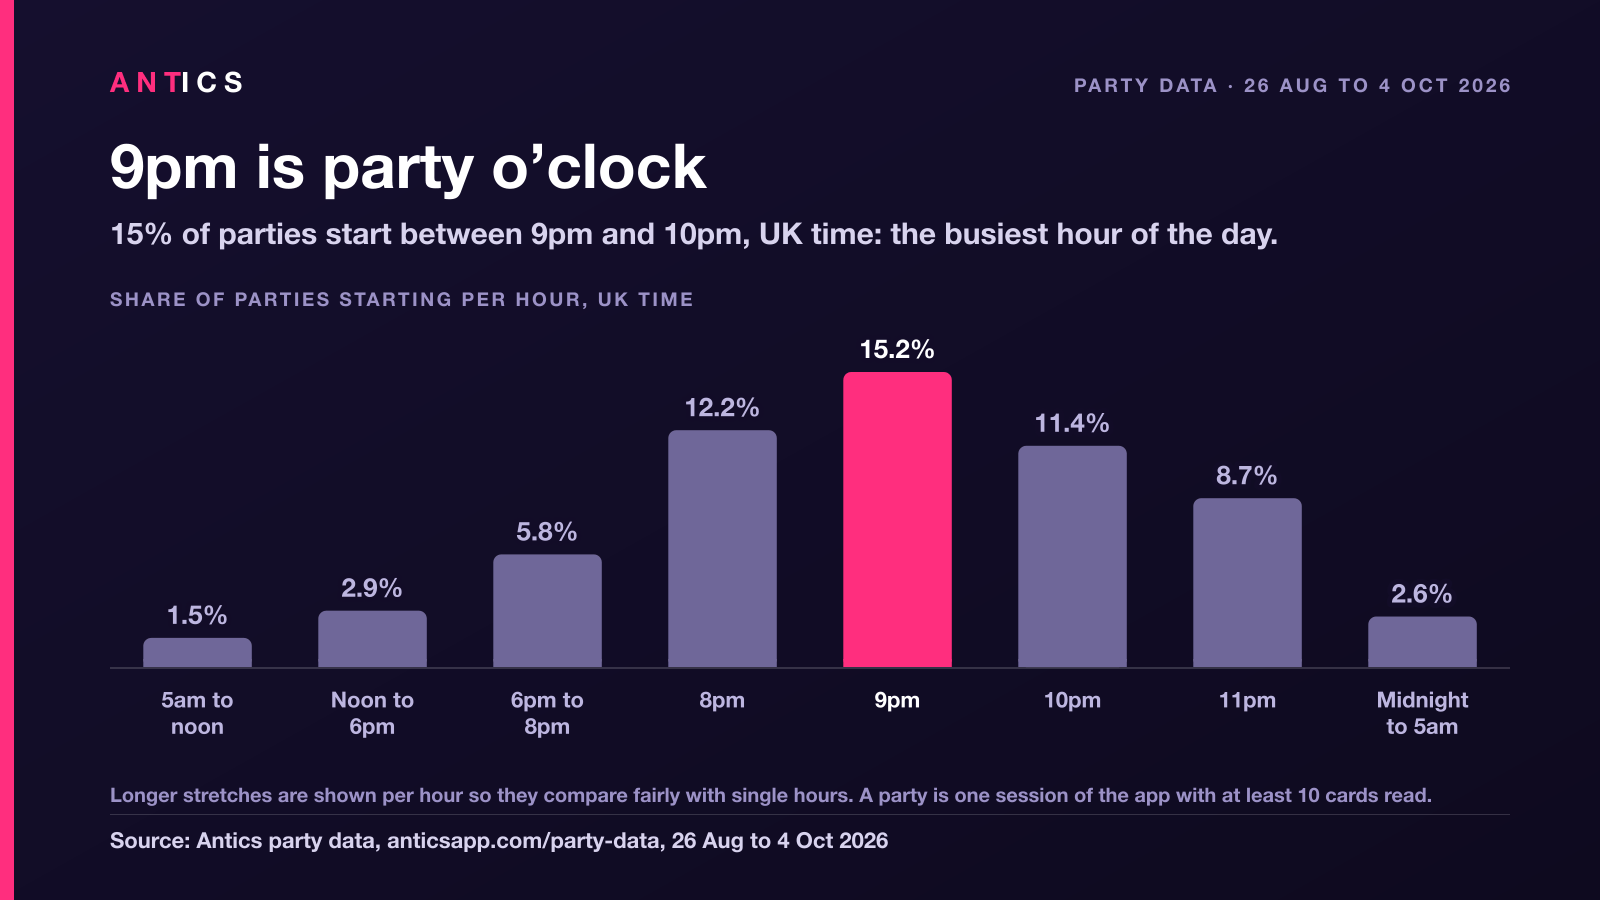
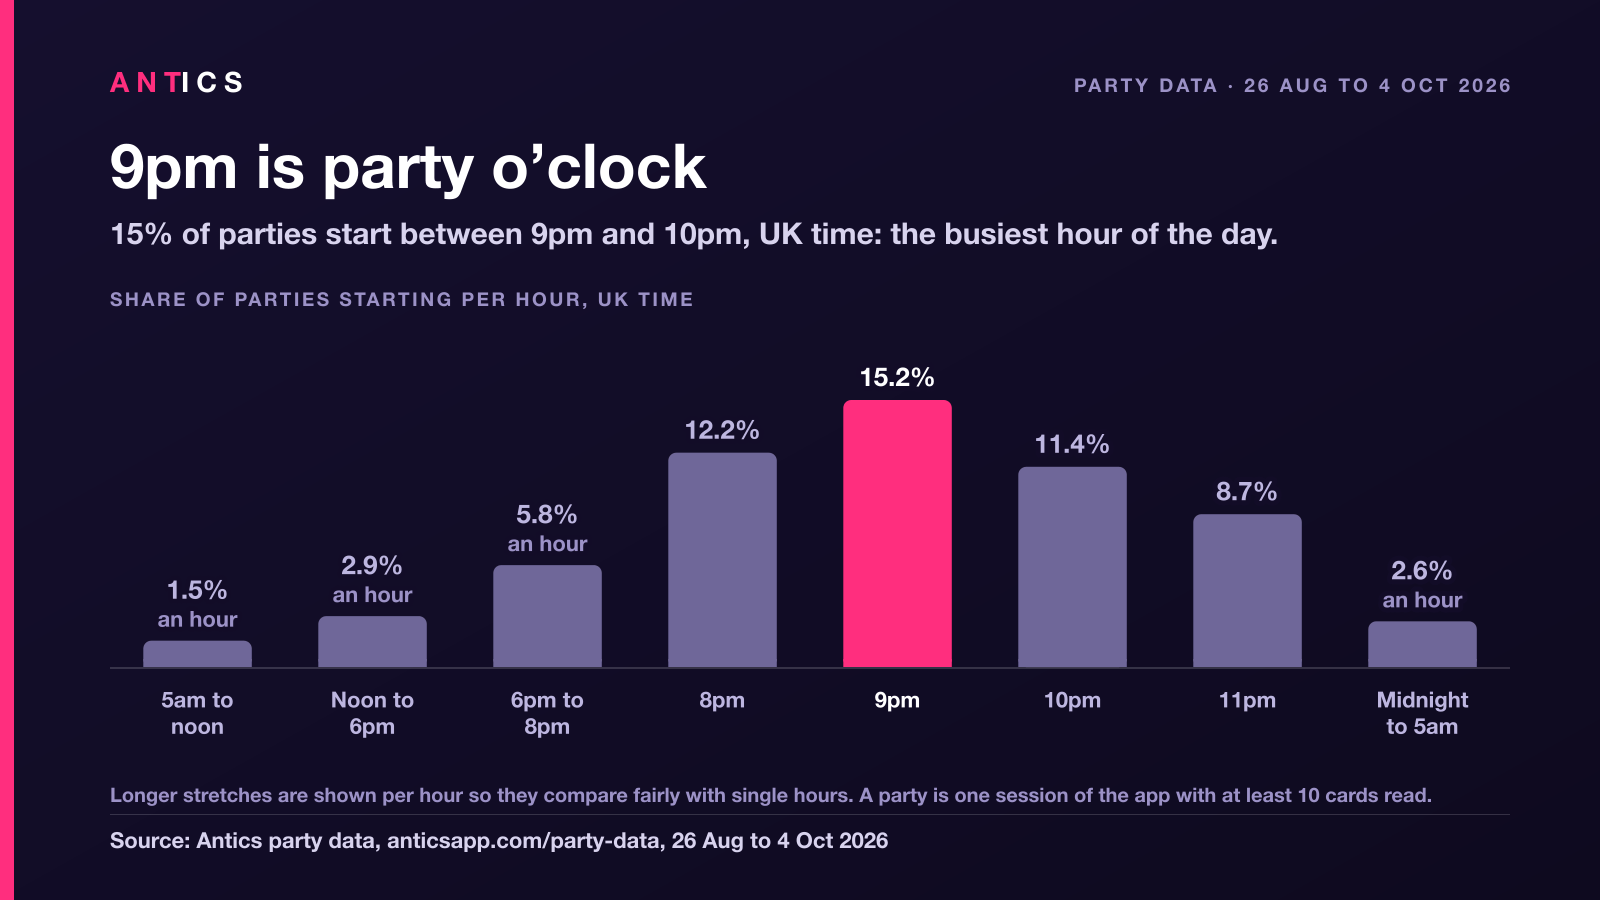
Party charts: multi-hour start-time bars say 'an hour' under the value
5am to noon, noon to 6pm, 6pm to 8pm and midnight to 5am are per-hour
averages; a cropped image showed them as bare shares. The script reads each
block's hours from the CSV definition column. Start-time PNGs, thumb and the
two download lists re-rendered.

diff --git a/party-data/index.html b/party-data/index.html
@@ -296,8 +296,8 @@
             <li>
               <a class="chart-dl-img" href="/party-data/charts/party-start-time.png"><img src="/party-data/charts/thumbs/party-start-time.webp" alt="Bar chart of the share of parties starting in each hour, UK time. 9pm to 10pm is the busiest hour at 15.2%, then 8pm to 9pm at 12.2% and 10pm to 11pm at 11.4%; before 6pm it is under 3% an hour. Source: Antics party data, 26 Aug to 4 Oct 2026." width="800" height="450" loading="lazy"></a>
               <strong>9pm is party o&rsquo;clock</strong>
-              <a href="/party-data/charts/party-start-time.png" download>Landscape PNG, 1600 x 900 (60 KB)</a>
-              <a href="/party-data/charts/party-start-time-portrait.png" download>Portrait PNG, 1080 x 1350 (61 KB)</a>
+              <a href="/party-data/charts/party-start-time.png" download>Landscape PNG, 1600 x 900 (63 KB)</a>
+              <a href="/party-data/charts/party-start-time-portrait.png" download>Portrait PNG, 1080 x 1350 (63 KB)</a>
             </li>
             <li>
               <a class="chart-dl-img" href="/party-data/charts/party-night-of-week.png"><img src="/party-data/charts/thumbs/party-night-of-week.webp" alt="Bar chart of parties per night of the week, where an average night is 100. Saturday is highest at 148, then Sunday at 114 and Friday at 105; Tuesday is lowest at 67. A Saturday night gets 1.8 times as many parties as a Monday to Thursday night. Source: Antics party data, 26 Aug to 4 Oct 2026." width="800" height="450" loading="lazy"></a>

diff --git a/press/index.html b/press/index.html
@@ -117,8 +117,8 @@
             <li>
               <a class="chart-dl-img" href="/party-data/charts/party-start-time.png"><img src="/party-data/charts/thumbs/party-start-time.webp" alt="Bar chart of the share of parties starting in each hour, UK time. 9pm to 10pm is the busiest hour at 15.2%, then 8pm to 9pm at 12.2% and 10pm to 11pm at 11.4%; before 6pm it is under 3% an hour. Source: Antics party data, 26 Aug to 4 Oct 2026." width="800" height="450" loading="lazy"></a>
               <strong>9pm is party o&rsquo;clock</strong>
-              <a href="/party-data/charts/party-start-time.png" download>Landscape PNG, 1600 x 900 (60 KB)</a>
-              <a href="/party-data/charts/party-start-time-portrait.png" download>Portrait PNG, 1080 x 1350 (61 KB)</a>
+              <a href="/party-data/charts/party-start-time.png" download>Landscape PNG, 1600 x 900 (63 KB)</a>
+              <a href="/party-data/charts/party-start-time-portrait.png" download>Portrait PNG, 1080 x 1350 (63 KB)</a>
             </li>
             <li>
               <a class="chart-dl-img" href="/party-data/charts/party-night-of-week.png"><img src="/party-data/charts/thumbs/party-night-of-week.webp" alt="Bar chart of parties per night of the week, where an average night is 100. Saturday is highest at 148, then Sunday at 114 and Friday at 105; Tuesday is lowest at 67. A Saturday night gets 1.8 times as many parties as a Monday to Thursday night. Source: Antics party data, 26 Aug to 4 Oct 2026." width="800" height="450" loading="lazy"></a>
